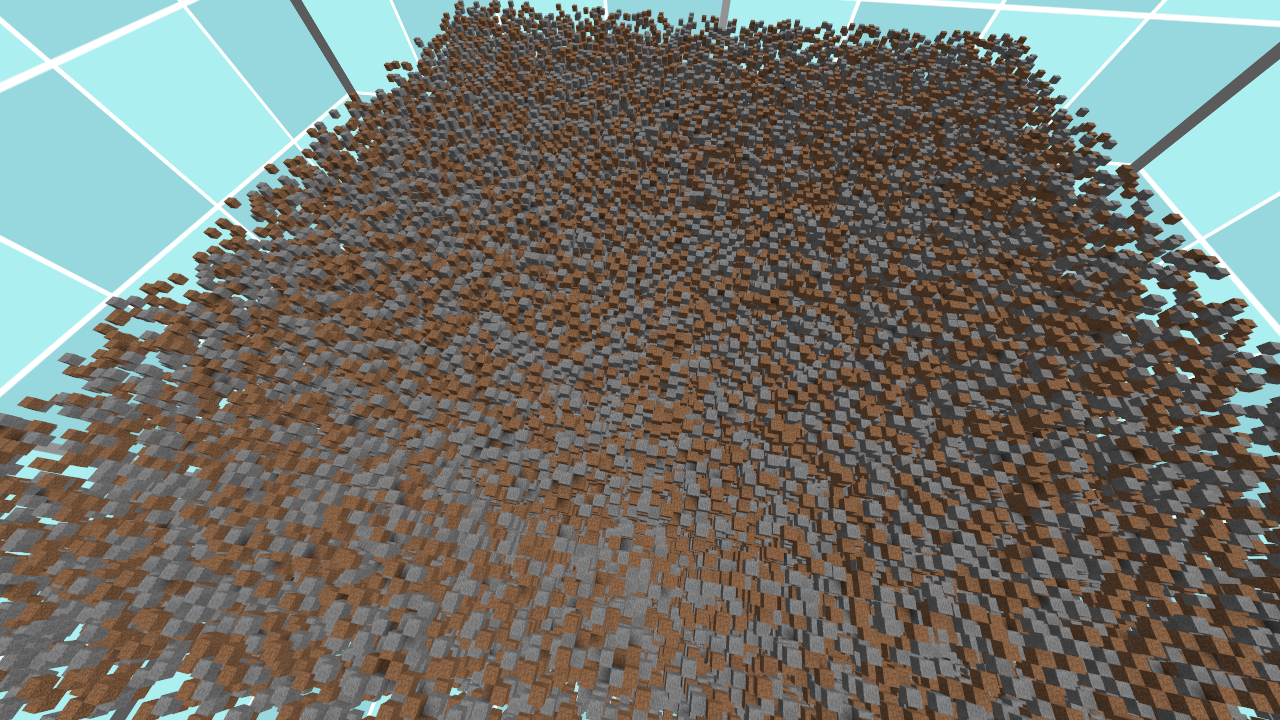
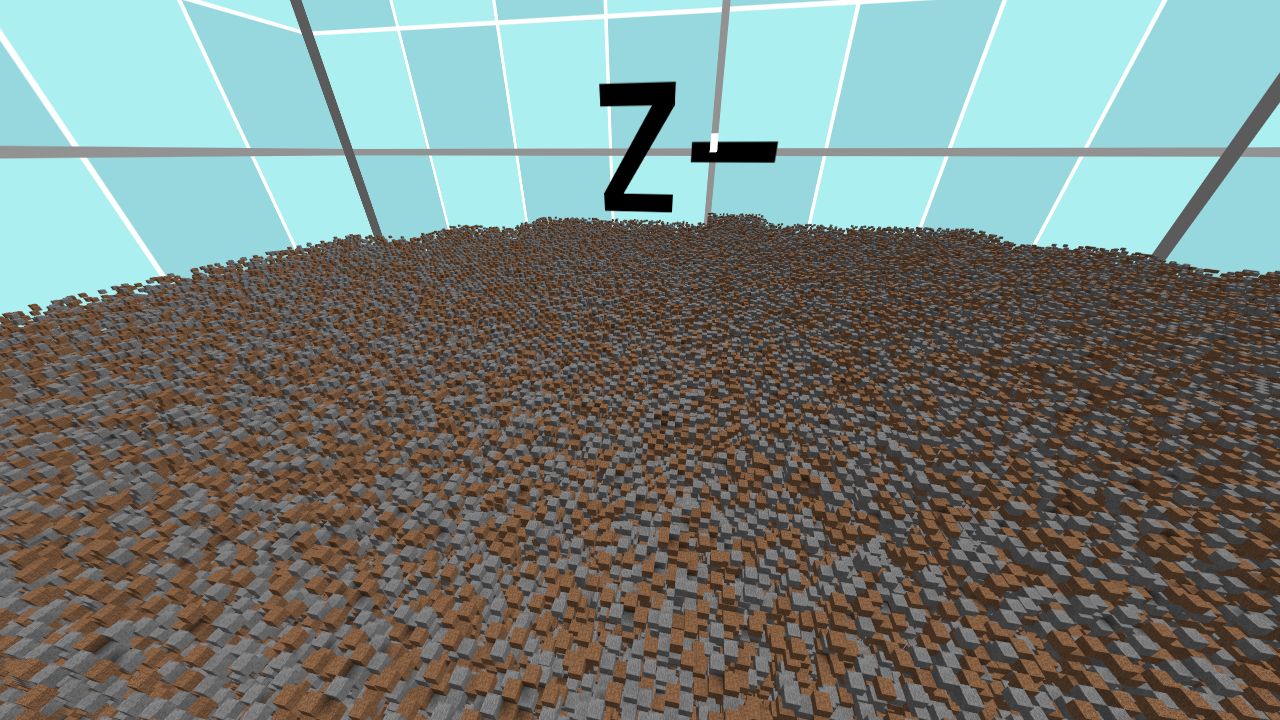
Changed the photo-mode screenshot angle

diff --git a/source/client/GameClient.cs b/source/client/GameClient.cs
@@ -89,7 +89,7 @@ public class GameClient : GameWindow
         _playerEntity = new PlayerEntity(new Vector3(0, 256, 0), 0, 0);
 #if DEBUG
         if (ClientConfig.DebugModeConfig.IsPhotoModeEnabled)
-            PhotoModeCamera.Create(new Vector3(0, 256, 48), -60, -100);
+            PhotoModeCamera.Create(new Vector3(0, 256, 48), -30, -100);
 #endif
         CursorState = CursorState.Grabbed;
         
@@ -173,7 +173,7 @@ public class GameClient : GameWindow
         _skybox.Draw();
 
 #if DEBUG
-        if (ClientConfig.DebugModeConfig.IsPhotoModeEnabled && Time.TotalTime > 1f)
+        if (ClientConfig.DebugModeConfig.IsPhotoModeEnabled && Time.TotalTime > 1f && RenderingStats.ChunksInMeshingQueue == 0)
         {
             Screenshotter.CaptureFrame(ClientSize.X, ClientSize.Y).SaveAsPng(ClientConfig.DebugModeConfig.PhotoModeScreenshotPath, "latest", true, true);
             Close();

diff --git a/source/client/source/Framework/Chunks/ChunkColumn.cs b/source/client/source/Framework/Chunks/ChunkColumn.cs
@@ -60,8 +60,8 @@ public class ChunkColumn
         // if (Position.X > 1 * Constants.CHUNK_SIZE || Position.X < -1 * Constants.CHUNK_SIZE || Position.Y > 1 * Constants.CHUNK_SIZE || Position.Y < -1 * Constants.CHUNK_SIZE)
         //     return;
         
-        if (Position.X > 1 * Constants.CHUNK_SIZE || Position.X < -2 * Constants.CHUNK_SIZE || Position.Y > 1 * Constants.CHUNK_SIZE || Position.Y < -2 * Constants.CHUNK_SIZE)
-            return;
+        // if (Position.X > 1 * Constants.CHUNK_SIZE || Position.X < -2 * Constants.CHUNK_SIZE || Position.Y > 1 * Constants.CHUNK_SIZE || Position.Y < -2 * Constants.CHUNK_SIZE)
+        //     return;
 
         // Generate test data
         for (int i = 0; i < Constants.CHUNK_COLUMN_HEIGHT / 2 - 1; i++)
